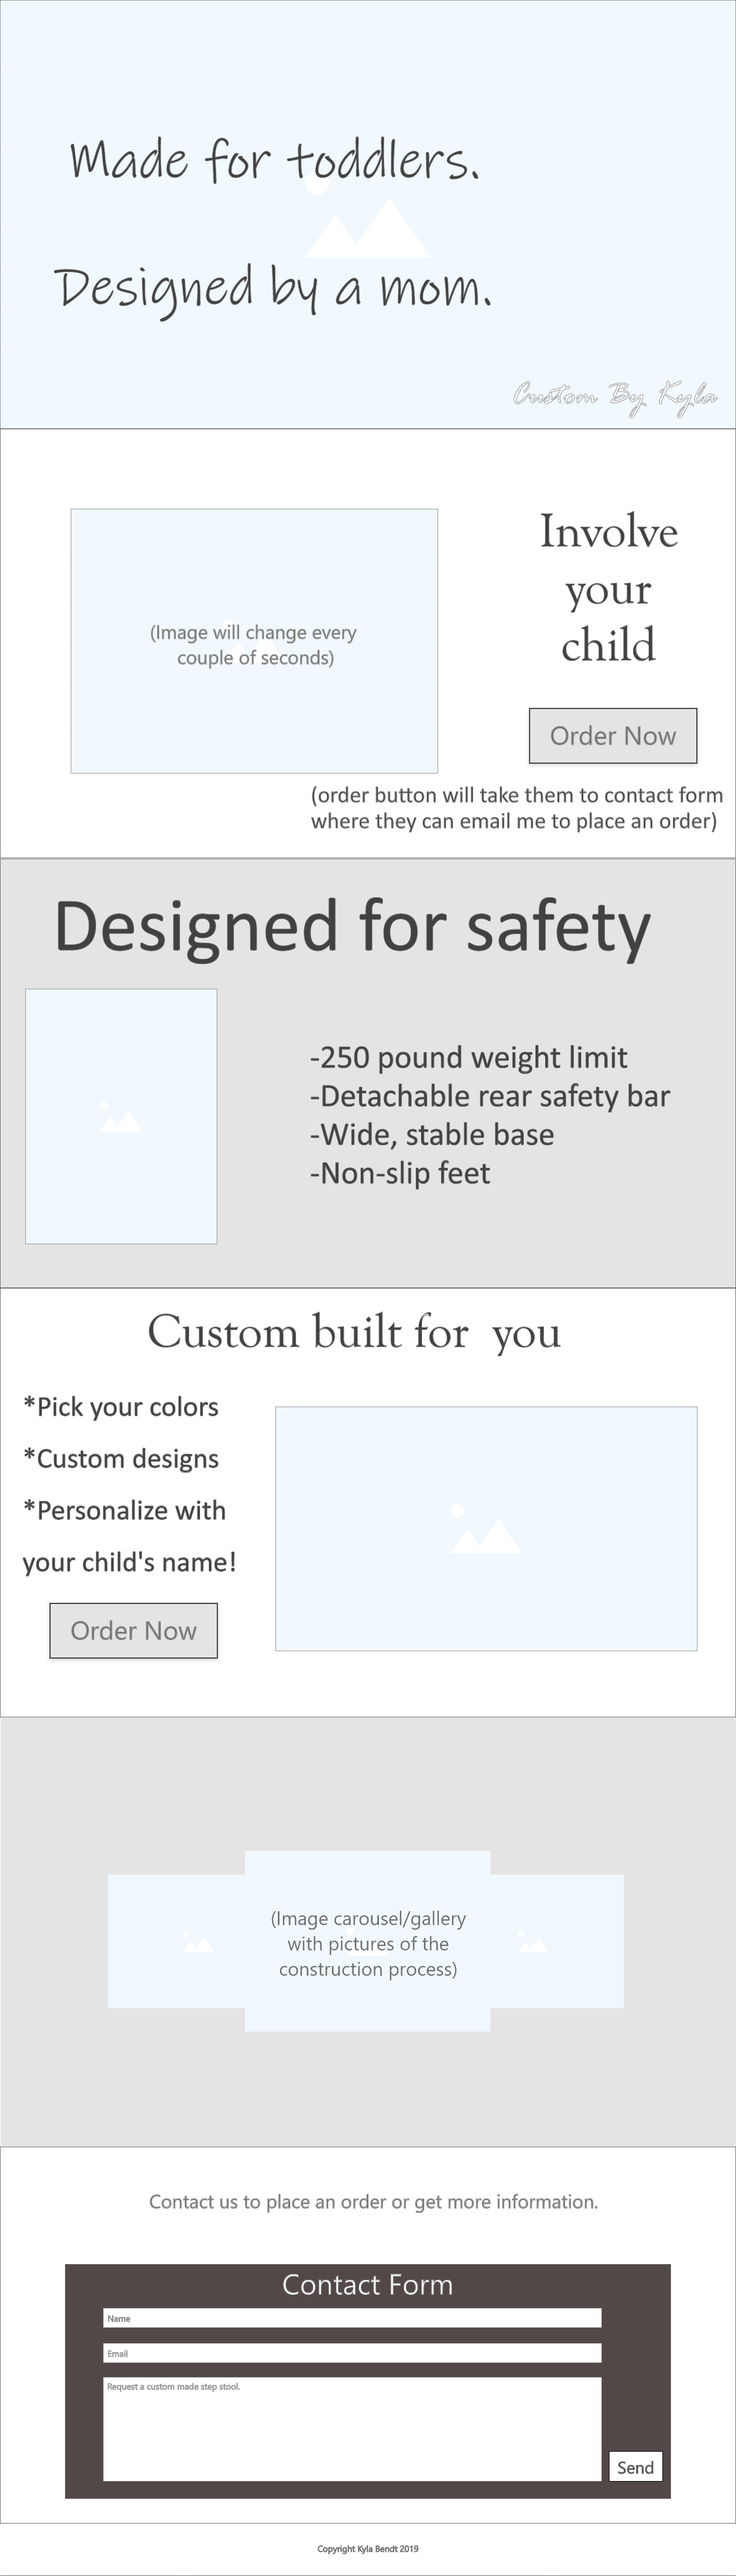
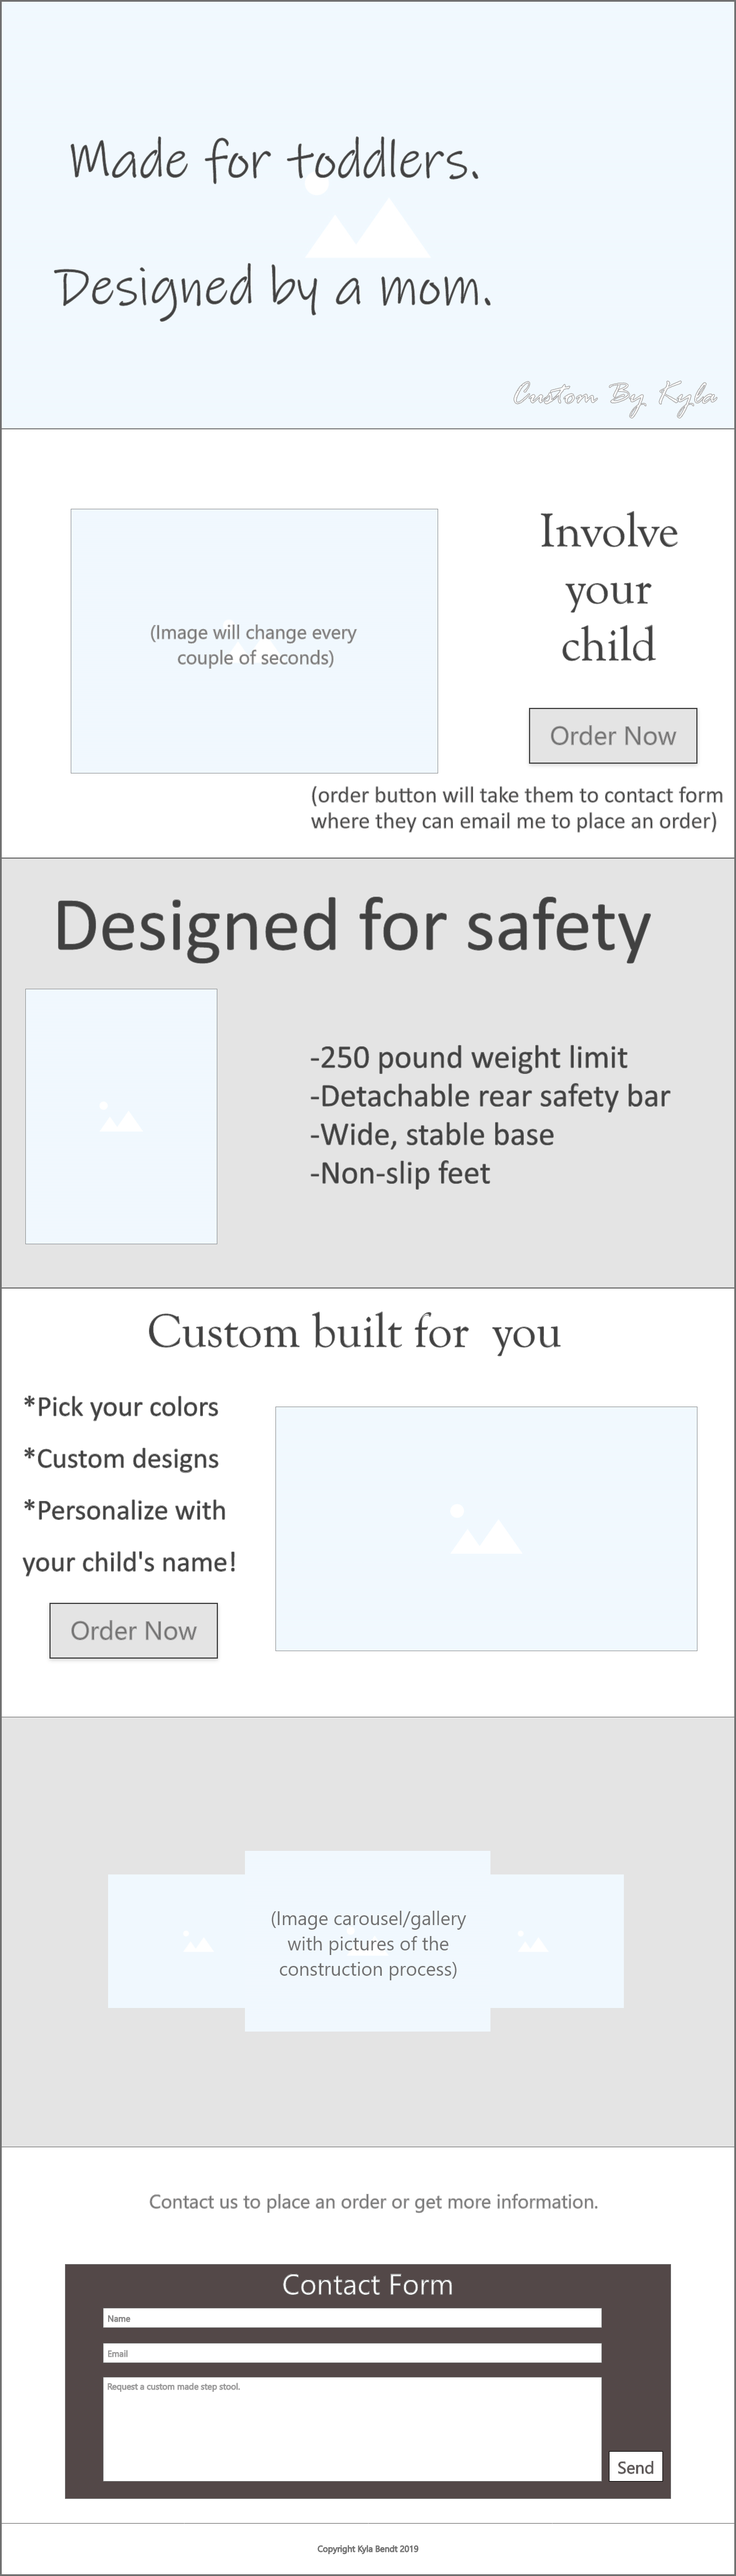
align wireframes vertically

Changed region(s): [[0.9688, 0.9937, 1.0, 1.0], [0.0, 0.9937, 0.0312, 1.0]]

diff --git a/public_html/documentation/styles/styles.css b/public_html/documentation/styles/styles.css
@@ -1,8 +1,9 @@
 div {
-	align-content: start;
+	/*align-content: start;*/
 }
 
 img {
+	vertical-align: top;
 	display: inline-block;
 	padding: 2em;
 }

diff --git a/public_html/documentation/milestone-2.php b/public_html/documentation/milestone-2.php
@@ -8,7 +8,8 @@
 <body>
 <h1>Wireframes - Custom by Kyla - Kyla's PWP: Milestone 2</h1>
 	<p>Mobile wireframe is based on a screen size of 375x812.  Each section is 770 pixels tall to show that there is another section at the bottom and encourage users to scroll. </p>
-	<p>Web wireframe  is based on a screen size of 1280x800.   Each section is 746 pixels tall.  </p>
+	<p>Web wireframe  is based on a screen size of 1280x800.  Each section is 746 pixels tall.  </p>
+	<p>Sections of the site are separated by thin grey lines- this is for clarity on the wireframes only and will not be included on the final site. </p>
 <div>
 	<img src="./images/kyla-mobile.png" alt="Wireframe for mobile">
 
